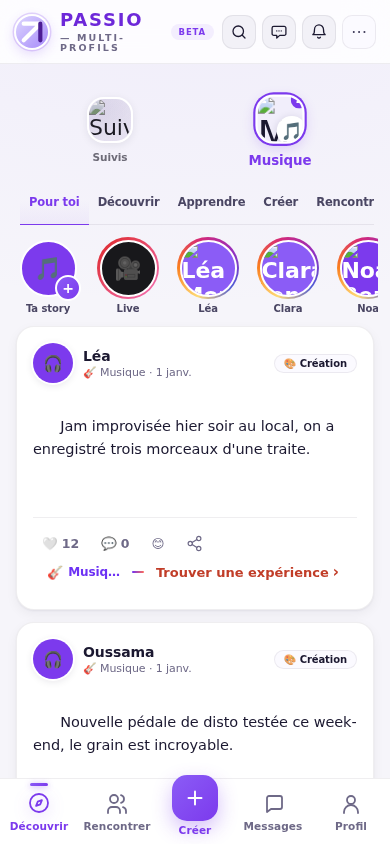
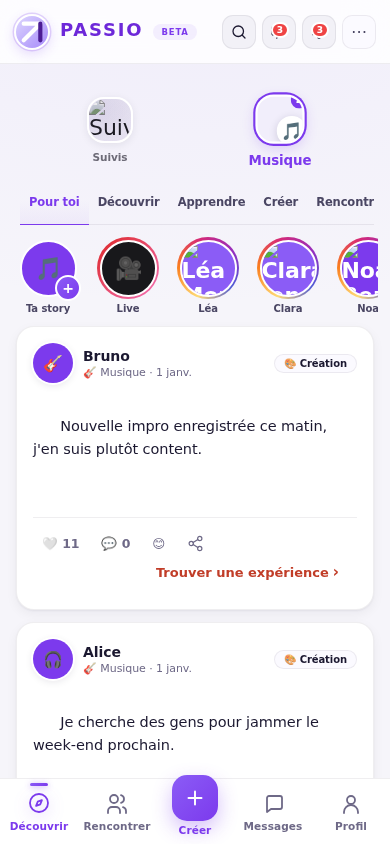
feat(ui-v3): ne garder que le lien au bas de la carte
Contrat visuel arrêté par Benjamin le 2026-08-27, après essai réel sur la
preview de la PR #163. La ligne basse d'une publication éligible ne porte plus
que « Trouver une expérience », aligné à droite. Le nom de la Passio, son emoji
et le trait violet → corail sont retirés : l'en-tête du post porte déjà la
Passio, la répéter en bas alourdissait la carte sans rien apprendre.

Supprimés, DOM et CSS : `.v3-bridge-passion`, `.v3-bridge-emoji`,
`.v3-bridge-label`, `.v3-bridge-trace`, ainsi que le helper `passionAffichable`,
devenu sans appel. `.v3-bridge` passe en `justify-content: flex-end`.

Le trait subsiste dans la FEUILLE BASSE, où il tient lieu de transition
d'ouverture — c'est le seul endroit où il informe encore, au moment où
l'utilisateur décide.

Inchangés, comme demandé : l'éligibilité, `data-v3-decore` et le masquage borné
du CTA historique, les trois actions, la restitution de position du Feed, les
kill switches. Aucune écriture, aucun appel Supabase, aucun chantier
performance.

Tests adaptés : le test d'éligibilité vérifie désormais l'ABSENCE du libellé, de
l'emoji et du trait, et qu'un seul enfant subsiste dans la ligne — le lien. Les
tests d'accessibilité, de contraste, de kill switch et de largeur mobile
(320/390/430) sont inchangés et restent verts. Suites UI-3A + intentions : 45/45.

Documentation : note datée dans `docs/PASSIO_UI_V2_DIRECTION_2026-08-25.md`
(section « trait Passio » et §A19, amendés sans être réécrits, pour garder la
[…]

diff --git a/js/ui-v3-passerelle.js b/js/ui-v3-passerelle.js
@@ -4,9 +4,9 @@
 //
 // Périmètre EXACT de ce lot, et rien de plus :
 //   une publication du Feed qui porte une Passio et n'est PAS déjà reliée à un
-//   événement reçoit, en bas de carte, le « trait Passio » (violet → corail) et
-//   un lien discret « Trouver une expérience ». Le tap ouvre une feuille basse
-//   du même nom, qui propose exactement trois suites, toutes
+//   événement reçoit, en bas de carte, un lien discret « Trouver une expérience »
+//   — et rien d'autre depuis le 2026-08-27, voir `construireBridge`. Le tap ouvre
+//   une feuille basse du même nom, qui propose exactement trois suites, toutes
 //   servies par des moteurs QUI EXISTENT DÉJÀ :
 //     ① Voir les activités      → irlPassionFilters + goTo("irl")/renderIRL
 //     ② Découvrir des personnes → openPassionExplorer(passion)
@@ -123,16 +123,6 @@
     return "";
   }
 
-  function passionAffichable(pid) {
-    try {
-      if (typeof passionById === "function") {
-        var p = passionById(pid);
-        if (p) return { emoji: p.emoji || "✨", label: p.label || pid };
-      }
-    } catch (e) { fail("passion_label", e); }
-    return { emoji: "✨", label: pid };
-  }
-
   // ── Éligibilité UI-3A ─────────────────────────────────────────────────────
   // « Publication portant une Passio, mais SANS événement déjà lié ». Les deux
   // exclusions relèvent du lot UI-3B et sont donc traitées ici comme des
@@ -149,34 +139,15 @@
   // ══════════════════════════════════════════════════════════════════════════
   function feedList() { return document.getElementById("feedList"); }
 
-  // Le « trait Passio » : badge de la Passio, ligne fine violet → corail, puis le
-  // lien. C'est la ligne elle-même qui RELIE visuellement la Passio à l'action —
-  // pas une pastille générique de plus (direction §A19).
-  function construireBridge(post, passionId) {
-    var vue = passionAffichable(passionId);
-
+  // La ligne basse d'une carte éligible ne porte QUE le lien. Elle a d'abord
+  // affiché un « trait Passio » — badge de la Passio, emoji, ligne fine violet →
+  // corail — retiré le 2026-08-27 après essai réel de Benjamin sur la preview :
+  // la Passio figure déjà dans l'en-tête du post, la répéter en bas alourdissait
+  // la carte sans rien apprendre. Le lien reste discret et aligné à droite.
+  function construireBridge(post) {
     var row = document.createElement("div");
     row.className = "v3-bridge";
     row.setAttribute("data-v3-bridge", String(post.id));
-
-    // `textContent` partout : le libellé d'une passion PERSONNALISÉE est du texte
-    // saisi par un utilisateur. Aucune chaîne HTML n'est construite ici, donc
-    // aucune fenêtre d'échappement oublié.
-    var chip = document.createElement("span");
-    chip.className = "v3-bridge-passion";
-    var em = document.createElement("span");
-    em.className = "v3-bridge-emoji";
-    em.setAttribute("aria-hidden", "true");
-    em.textContent = vue.emoji;
-    var lab = document.createElement("span");
-    lab.className = "v3-bridge-label";
-    lab.textContent = vue.label;
-    chip.appendChild(em);
-    chip.appendChild(lab);
-
-    var trace = document.createElement("span");
-    trace.className = "v3-bridge-trace";
-    trace.setAttribute("aria-hidden", "true");
 
     var cta = document.createElement("button");
     cta.type = "button";
@@ -184,10 +155,10 @@
     cta.setAttribute("data-v3-tempt", String(post.id));
     cta.setAttribute("aria-haspopup", "dialog");
     cta.setAttribute("aria-expanded", "false");
+    // `textContent` : le libellé est une constante du lot, mais la règle vaut
+    // pour toute la ligne — aucune chaîne HTML n'est construite ici.
     cta.textContent = LIBELLE_CTA;
 
-    row.appendChild(chip);
-    row.appendChild(trace);
     row.appendChild(cta);
     return row;
   }
@@ -212,7 +183,7 @@
     var passionId = passionDuPost(post);
     if (!passionId) return;
 
-    article.appendChild(construireBridge(post, passionId));
+    article.appendChild(construireBridge(post));
     // Marque la carte comme DÉCORÉE. C'est cet attribut, et lui seul, qui
     // autorise le CSS à masquer le CTA historique : les deux éligibilités ne se
     // recouvrent pas (le pont historique n'exige aucune passion, la passerelle
@@ -379,8 +350,9 @@
     grip.className = "v2-sheet-grip";
     grip.setAttribute("aria-hidden", "true");
 
-    // Le « trait Passio » se prolonge dans la feuille : c'est le même motif qui
-    // relie la carte à ses suites réelles.
+    // Le trait violet → corail ne subsiste QUE dans la feuille, où il tient lieu
+    // de transition d'ouverture. Sur la carte il a été retiré le 2026-08-27 : il
+    // y répétait une Passio déjà lisible dans l'en-tête du post.
     var trace = document.createElement("div");
     trace.className = "v3-sheet-trace";
     trace.setAttribute("aria-hidden", "true");

diff --git a/tests/e2e/ui-v3-passerelle.spec.js b/tests/e2e/ui-v3-passerelle.spec.js
@@ -5,8 +5,8 @@
 //   ① l'URL NORMALE porte la passerelle, et rien n'est écrit dans localStorage
 //      pour autant — l'activation vient du déploiement, pas de l'appareil ;
 //   ② les deux kill switches (localStorage et mémoire) coupent l'aperçu ;
-//   ③ une publication portant une Passio et SANS événement lié reçoit le trait
-//      Passio et le lien ; une publication reliée à un événement, non (UI-3B) ;
+//   ③ une publication portant une Passio et SANS événement lié reçoit le lien,
+//      et RIEN d'autre ; une publication reliée à un événement, non (UI-3B) ;
 //   ④ le tap ouvre « Trouver une expérience » avec EXACTEMENT trois actions ;
 //   ⑤ chacune des trois ouvre le moteur EXISTANT, sans rien créer ;
 //   ⑥ la fermeture restitue la position exacte du Feed et l'identité active ;
@@ -263,7 +263,7 @@ test("kill switch mémoire : window.PASSIO_UI_3 = false coupe l'aperçu", async 
 });
 
 // ── ③ Éligibilité ──────────────────────────────────────────────────────────
-test("le trait Passio et le lien n'apparaissent que sur les publications éligibles", async ({ page }) => {
+test("le lien n'apparaît que sur les publications éligibles, et SEUL", async ({ page }) => {
   await boot(page);
   await seedFeed(page, [
     post("v3_ok", "Alice"),                                       // éligible
@@ -274,9 +274,21 @@ test("le trait Passio et le lien n'apparaissent que sur les publications éligib
 
   await expect(page.locator("#feedList [data-v3-bridge]")).toHaveCount(1);
   const carte = page.locator('article.post[data-postid="v3_ok"]');
-  await expect(carte.locator(".v3-bridge-trace")).toHaveCount(1);
-  await expect(carte.locator(".v3-bridge-label")).toHaveText("Musique");
   await expect(carte.locator("[data-v3-tempt]")).toHaveText("Trouver une expérience");
+
+  // Contrat visuel arrêté le 2026-08-27 après essai réel sur la preview : la
+  // ligne basse ne porte QUE le lien. Le nom de la Passio, son emoji et le trait
+  // violet/corail sont supprimés — la Passio figure déjà dans l'en-tête du post.
+  const ligne = carte.locator("[data-v3-bridge]");
+  await expect(ligne.locator(".v3-bridge-passion")).toHaveCount(0);
+  await expect(ligne.locator(".v3-bridge-emoji")).toHaveCount(0);
+  await expect(ligne.locator(".v3-bridge-label")).toHaveCount(0);
+  await expect(ligne.locator(".v3-bridge-trace")).toHaveCount(0);
+  // Un seul élément dans la ligne, et c'est le lien.
+  expect(await ligne.evaluate((el) => el.children.length)).toBe(1);
+  expect(await ligne.evaluate((el) => el.firstElementChild.className)).toContain("v3-tempt");
+  // Le libellé de la Passio n'apparaît nulle part dans cette ligne.
+  expect(await ligne.innerText()).toBe("Trouver une expérience");
 
   await expect(page.locator('article.post[data-postid="v3_evt"] [data-v3-bridge]')).toHaveCount(0);
   await expect(page.locator('article.post[data-postid="v3_share"] [data-v3-bridge]')).toHaveCount(0);

diff --git a/styles.css b/styles.css
@@ -9402,47 +9402,20 @@ body.ctx-locked #appMain { overflow: hidden; }
    vers l'IRL des cartes sans passion reconnue, sans rien mettre à la place. */
 :root.passio-ui-3 .post[data-v3-decore] .feed-irl-bridge { display: none; }
 
-/* ── Le « trait Passio » sur la carte du fil ────────────────────────────────
-   Badge de la Passio → ligne fine violet/corail → lien discret. C'est la LIGNE
-   qui porte la signature (direction §A19) : volontairement pas de pastille
-   colorée, pas de bandeau, pas de carte dans la carte. */
+/* ── La ligne basse d'une carte éligible ────────────────────────────────────
+   Elle ne porte QUE le lien, aligné à droite. Elle a d'abord affiché un « trait
+   Passio » — badge de la Passio, emoji, ligne fine violet/corail — retiré le
+   2026-08-27 après essai réel de Benjamin sur la preview : la Passio figure déjà
+   dans l'en-tête du post, la répéter en bas alourdissait la carte sans rien
+   apprendre. Volontairement pas de pastille colorée, pas de bandeau, pas de
+   carte dans la carte. */
 :root.passio-ui-3 .v3-bridge {
   display: flex;
   align-items: center;
-  gap: 8px;
+  justify-content: flex-end;
   /* Aligné sur le rembourrage horizontal des autres blocs de la carte. */
   padding: 2px 14px 10px;
   min-width: 0;
-}
-
-:root.passio-ui-3 .v3-bridge-passion {
-  display: inline-flex;
-  align-items: center;
-  gap: 5px;
-  flex-shrink: 1;
-  min-width: 0;
-  font-size: 12px;
-  font-weight: 700;
-  color: var(--v3-violet);
-}
-:root.passio-ui-3 .v3-bridge-emoji { font-size: 13px; line-height: 1; }
-/* En 320 px le libellé cède avant tout le reste : il s'élide, la ligne ne
-   déborde jamais et le lien reste entier. */
-:root.passio-ui-3 .v3-bridge-label {
-  overflow: hidden;
-  text-overflow: ellipsis;
-  white-space: nowrap;
-  min-width: 0;
-}
-
-:root.passio-ui-3 .v3-bridge-trace {
-  flex: 1 1 12px;
-  /* 12 px : en dessous, la ligne n'est plus lisible comme un lien visuel ;
-     au-dessus, elle repousserait le CTA hors de la carte en 320 px. */
-  min-width: 12px;
-  height: 2px;
-  border-radius: 2px;
-  background: var(--v3-trace);
 }
 
 /* Un LIEN, pas un bouton plein : discret dans la carte, mais la cible tactile

diff --git a/docs/PASSIO_UI_V2_DIRECTION_2026-08-25.md b/docs/PASSIO_UI_V2_DIRECTION_2026-08-25.md
@@ -153,6 +153,16 @@ Un trait fin part du badge de passion d’un contenu, traverse le module context
 
 Ce motif relie visuellement Feed et IRL. Il doit rester discret, identifiable et réutilisable sur les cartes Feed, Bobines, événements et conversations.
 
+> ⚠ **Rectification du 2026-08-27 — le trait est retiré de la carte du Feed.**
+> Après essai réel de Benjamin sur la preview de la PR #163, la ligne basse d'une
+> publication ne porte plus que le lien **« Trouver une expérience »**, aligné à
+> droite. Le nom de la Passio, son emoji et le trait violet → corail y sont
+> supprimés : la Passio figure déjà dans l'en-tête du post, la répéter en bas
+> alourdissait la carte sans rien apprendre. Le trait **subsiste dans la feuille
+> basse**, où il tient lieu de transition d'ouverture. Le schéma ci-dessus décrit
+> donc l'intention d'origine, plus l'implémentation livrée ; A19 est amendé dans
+> le même sens.
+
 ### Mouvement
 
 - une seule animation forte : lors de `Ça me tente`, le trait violet devient corail et ouvre le panneau IRL contextuel ;
@@ -858,6 +868,13 @@ Cette formulation évite de transformer PASSIO en dating forcé tout en gardant 
 Le lien Feed → IRL ne doit pas être seulement technique. L’utilisateur doit le percevoir visuellement. Le trait relie le badge de passion au module réel, avec un passage du violet au corail. Il rend visible la transformation : une passion numérique devient une expérience humaine.
 
 Cet élément est plus distinctif qu’une accumulation de cartes violettes et de dégradés génériques. Il donne à PASSIO un langage que l’on peut reconnaître dans le Feed, les Bobines, les fiches d’activité et les conversations.
+
+> ⚠ **Amendé le 2026-08-27, à l'épreuve du réel.** Le raisonnement tenait sur le
+> papier ; sur l'écran, répéter la Passio en bas de carte n'apportait rien —
+> l'en-tête du post la porte déjà — et chargeait le fil. Le trait est donc retiré
+> de la carte et conservé dans la feuille basse, où il relie encore la Passio à
+> ses suites réelles au moment où l'utilisateur décide. La signature demeure,
+> elle se joue une fois, là où elle informe.
 
 ### A20. Pourquoi la couleur IRL est plus chaude
 

diff --git a/CLAUDE.md b/CLAUDE.md
@@ -287,6 +287,12 @@ Le script est en lecture seule sur le dépôt (il n'écrit que dans son dossier 
   `docs/PASSIO_UI_V2_ORDRE_UI1_2026-08-25.md`.
   Implémentation UI-1 : `js/ui-v2-shell.js` + bloc « PASSIO UI V2 » en fin de `styles.css`
   (inertes sous kill switch), tests `tests/e2e/ui-v2-shell.spec.js`.
+  ⚠ **Contrat visuel arrêté le 2026-08-27, après essai réel de Benjamin sur la
+  preview** : la ligne basse d'une carte éligible ne porte QUE le lien « Trouver une
+  expérience », aligné à droite. Le nom de la Passio, son emoji et le « trait Passio »
+  violet → corail y ont été RETIRÉS — l'en-tête du post porte déjà la Passio, la répéter
+  en bas alourdissait la carte. Le trait subsiste dans la feuille basse, comme transition
+  d'ouverture. La direction §A19 est amendée dans ce sens.
   Implémentation UI-3A (passerelle « Trouver une expérience » du Feed vers l'IRL) :
   `js/ui-v3-passerelle.js` + bloc « PASSIO UI V3 » en fin de `styles.css`, tests
   `tests/e2e/ui-v3-passerelle.spec.js`. **ACTIF PAR DÉFAUT** depuis la validation
